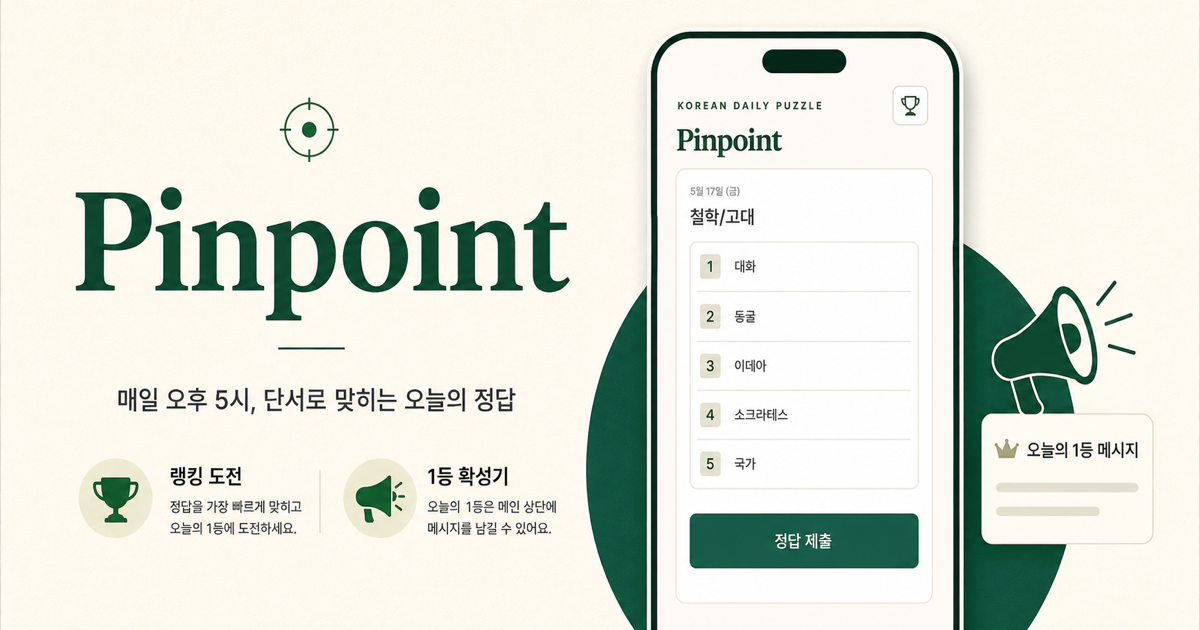
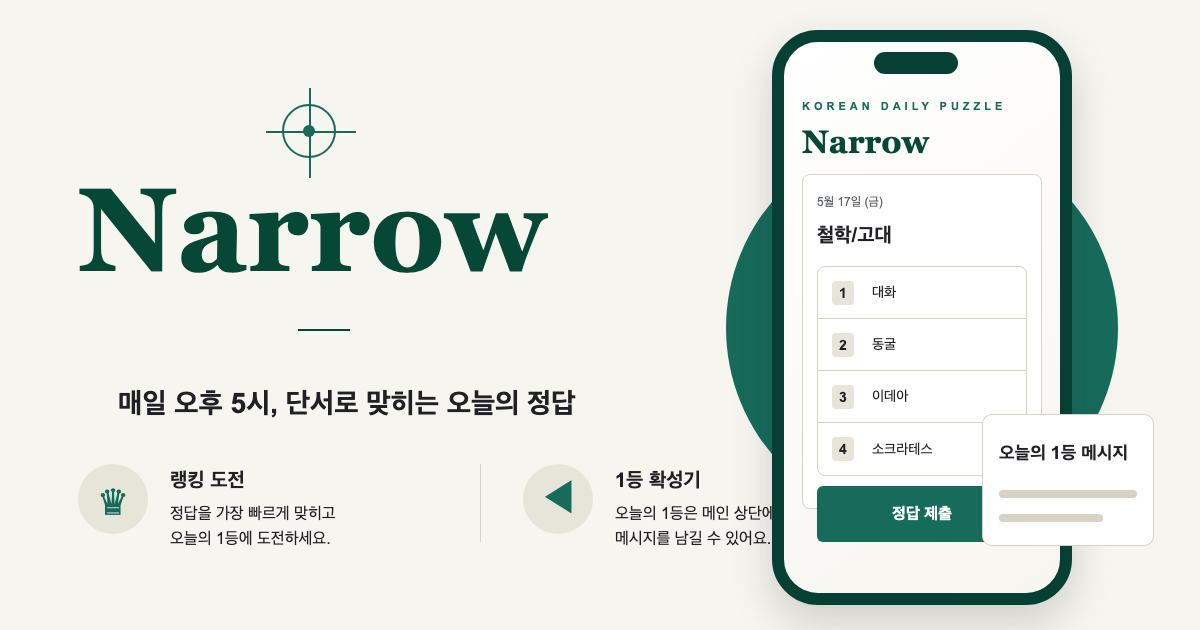
Rename app brand to Narrow

diff --git a/src/app/terms/page.tsx b/src/app/terms/page.tsx
@@ -3,7 +3,7 @@ import { LegalTemplate } from "@/components/templates/LegalTemplate";
 
 export const metadata: Metadata = {
   title: "이용약관",
-  description: "Pinpoint 이용약관"
+  description: "Narrow 이용약관"
 };
 
 export default function TermsPage() {
@@ -16,7 +16,7 @@ export default function TermsPage() {
         {
           title: "서비스 목적",
           paragraphs: [
-            "Pinpoint는 매일 공개되는 한국어 연상 퍼즐을 플레이하고 결과를 공유할 수 있는 웹 서비스입니다.",
+            "Narrow는 매일 공개되는 한국어 연상 퍼즐을 플레이하고 결과를 공유할 수 있는 웹 서비스입니다.",
             "서비스 내용과 제공 방식은 운영 상황에 따라 변경될 수 있습니다."
           ]
         },
@@ -30,7 +30,7 @@ export default function TermsPage() {
         {
           title: "콘텐츠와 랭킹",
           paragraphs: [
-            "퍼즐, 단서, 화면 구성 등 서비스 콘텐츠의 권리는 Pinpoint 또는 정당한 권리자에게 있습니다.",
+            "퍼즐, 단서, 화면 구성 등 서비스 콘텐츠의 권리는 Narrow 또는 정당한 권리자에게 있습니다.",
             "랭킹과 기록은 기술적 오류, 부정 이용, 운영상 필요가 있을 때 수정 또는 삭제될 수 있습니다."
           ]
         },

diff --git a/src/app/layout.tsx b/src/app/layout.tsx
@@ -8,15 +8,15 @@ const DEFAULT_ADSENSE_CLIENT = "ca-pub-4621241846705196";
 export const metadata: Metadata = {
   metadataBase: new URL(process.env.NEXT_PUBLIC_SITE_URL ?? "https://pinpoint-seven.vercel.app"),
   title: {
-    default: "Pinpoint",
-    template: "%s | Pinpoint"
+    default: "Narrow",
+    template: "%s | Narrow"
   },
   description: "매일 오후 5시, 단서로 맞히는 한국어 연상 퍼즐",
   openGraph: {
-    title: "Pinpoint",
+    title: "Narrow",
     description: "매일 오후 5시, 단서로 맞히는 오늘의 정답",
     url: "/",
-    siteName: "Pinpoint",
+    siteName: "Narrow",
     locale: "ko_KR",
     type: "website",
     images: [
@@ -24,13 +24,13 @@ export const metadata: Metadata = {
         url: "/og.png",
         width: 1200,
         height: 630,
-        alt: "Pinpoint 한국어 일일 연상 퍼즐"
+        alt: "Narrow 한국어 일일 연상 퍼즐"
       }
     ]
   },
   twitter: {
     card: "summary_large_image",
-    title: "Pinpoint",
+    title: "Narrow",
     description: "매일 오후 5시, 단서로 맞히는 오늘의 정답",
     images: ["/og.png"]
   }

diff --git a/src/app/privacy/page.tsx b/src/app/privacy/page.tsx
@@ -3,7 +3,7 @@ import { LegalTemplate } from "@/components/templates/LegalTemplate";
 
 export const metadata: Metadata = {
   title: "개인정보처리방침",
-  description: "Pinpoint 개인정보처리방침"
+  description: "Narrow 개인정보처리방침"
 };
 
 export default function PrivacyPage() {
@@ -16,7 +16,7 @@ export default function PrivacyPage() {
         {
           title: "수집하는 정보",
           paragraphs: [
-            "Pinpoint는 오늘의 퍼즐 풀이, 랭킹 표시, 로그인 상태 유지를 위해 필요한 최소한의 정보를 처리합니다.",
+            "Narrow는 오늘의 퍼즐 풀이, 랭킹 표시, 로그인 상태 유지를 위해 필요한 최소한의 정보를 처리합니다.",
             "Google 로그인 시 Supabase Auth를 통해 사용자 식별자, 이름, 프로필 이미지 등 Google 계정에서 제공되는 기본 프로필 정보가 처리될 수 있습니다.",
             "비로그인 플레이에서는 같은 브라우저의 오늘 풀이를 구분하기 위한 익명 세션 정보가 사용될 수 있습니다."
           ]

diff --git a/src/components/molecules/ShareButton.tsx b/src/components/molecules/ShareButton.tsx
@@ -8,7 +8,7 @@ export function ShareButton() {
 
   async function share() {
     const url = window.location.origin;
-    const title = "Pinpoint";
+    const title = "Narrow";
     const text = "매일 오후 5시, 단서로 맞히는 한국어 연상 퍼즐";
 
     try {
@@ -32,7 +32,7 @@ export function ShareButton() {
       className="focus-ring inline-flex h-10 w-10 items-center justify-center rounded-md border border-[var(--border)] bg-white"
       type="button"
       onClick={share}
-      aria-label={shared ? "링크가 복사되었습니다" : "Pinpoint 공유하기"}
+      aria-label={shared ? "링크가 복사되었습니다" : "Narrow 공유하기"}
       title={shared ? "복사됨" : "공유하기"}
     >
       <Icon className="h-5 w-5 text-[var(--accent)]" aria-hidden="true" />

diff --git a/src/components/organisms/ResultPanel.tsx b/src/components/organisms/ResultPanel.tsx
@@ -49,7 +49,7 @@ export function ResultPanel() {
   const shareText = useMemo(() => {
     if (!result || !result.answer) return "";
     const mark = result.status === "succeeded" ? `${result.usedClueCount}/5` : "실패";
-    return `Pinpoint ${mark}\n정답: ${result.answer}\n단서: ${result.clues.join(" / ")}`;
+    return `Narrow ${mark}\n정답: ${result.answer}\n단서: ${result.clues.join(" / ")}`;
   }, [result]);
 
   async function shareResult() {
@@ -58,7 +58,7 @@ export function ResultPanel() {
     const text = `${shareText}\n${url}`;
     try {
       if (navigator.share) {
-        await navigator.share({ title: "Pinpoint", text, url });
+        await navigator.share({ title: "Narrow", text, url });
       } else {
         await navigator.clipboard.writeText(text);
       }

diff --git a/src/components/organisms/GameHeader.tsx b/src/components/organisms/GameHeader.tsx
@@ -11,7 +11,7 @@ type GameHeaderProps = {
   showShare?: boolean;
 };
 
-export function GameHeader({ eyebrow, title = "Pinpoint", action = "ranking", showGuide = false, showShare = false }: GameHeaderProps) {
+export function GameHeader({ eyebrow, title = "Narrow", action = "ranking", showGuide = false, showShare = false }: GameHeaderProps) {
   const ActionIcon = action === "home" ? Home : Trophy;
   const actionHref = action === "home" ? "/" : "/ranking";
   const actionLabel = action === "home" ? "메인으로 돌아가기" : "오늘의 랭킹";

diff --git a/src/app/contact/page.tsx b/src/app/contact/page.tsx
@@ -3,7 +3,7 @@ import Link from "next/link";
 
 export const metadata: Metadata = {
   title: "문의",
-  description: "Pinpoint 문의"
+  description: "Narrow 문의"
 };
 
 export default function ContactPage() {

diff --git a/docs/share-kit.md b/docs/share-kit.md
@@ -1,4 +1,4 @@
-# Pinpoint 공유 문구
+# Narrow 공유 문구
 
 ## 카카오톡/단톡방
 
@@ -38,7 +38,7 @@ https://pinpoint-seven.vercel.app/
 
 ## X/Threads
 
-하루 한 문제 한국어 연상 퍼즐 Pinpoint를 만들었습니다.
+하루 한 문제 한국어 연상 퍼즐 Narrow를 만들었습니다.
 
 단서 5개 안에 정답을 맞히고 오늘의 랭킹에 도전하는 방식입니다. 1등은 메인 상단에 확성기 메시지도 남길 수 있어요.
 
@@ -46,4 +46,4 @@ https://pinpoint-seven.vercel.app/
 
 ## 짧은 소개
 
-Pinpoint는 매일 오후 5시에 열리는 한국어 연상 퍼즐입니다. 단서가 하나씩 열리고, 정답을 빨리 맞힌 사람은 오늘의 랭킹에 올라갑니다.
+Narrow는 매일 오후 5시에 열리는 한국어 연상 퍼즐입니다. 단서가 하나씩 열리고, 정답을 빨리 맞힌 사람은 오늘의 랭킹에 올라갑니다.

diff --git a/README.md b/README.md
@@ -1,6 +1,6 @@
-# Pinpoint
+# Narrow
 
-한국어 Pinpoint는 매일 한 문제씩 공개되는 연상 퍼즐 게임이다. 플레이어는 순서대로 공개되는 5개의 단서를 보고 하나의 정답을 맞힌다. 핵심 재미는 모호한 단서가 점점 하나의 답으로 수렴하는 순간에 있다.
+Narrow는 매일 한 문제씩 공개되는 한국어 연상 퍼즐 게임이다. 플레이어는 순서대로 공개되는 5개의 단서를 보고 하나의 정답을 맞힌다. 핵심 재미는 모호한 단서가 점점 하나의 답으로 수렴하는 순간에 있다.
 
 ## 현재 상태
 
